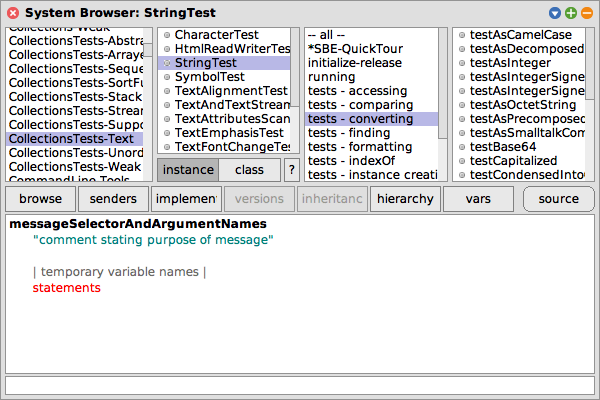
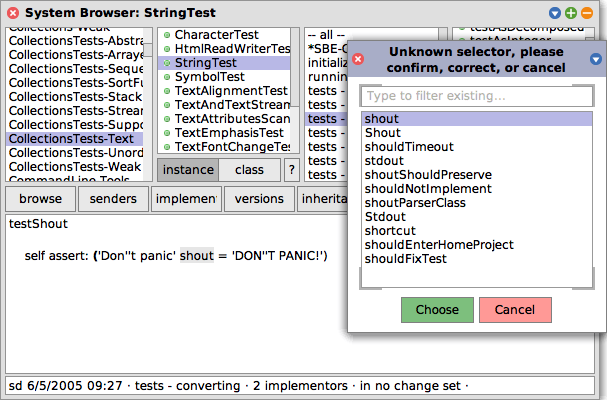
add testShoutConfirm

diff --git a/QuickTour/QuickTour.tex b/QuickTour/QuickTour.tex
@@ -783,12 +783,15 @@ So select \menu{accept (s)} from the yellow-button menu in the bottom pane, or j
 Because there is as yet no method called \ct{shout}, the browser will ask you to confirm that this is the name that you really want\,---\,and it will suggest some other names that you might have intended (\figref{testShoutConfirm}).
 This can be quite useful if you have merely made a typing mistake, but in this case, we really \emph{do} mean \ct{shout}, since that is the method we are about to create, so we have to confirm this by selecting the first option from the menu of choices, as shown in \figref{testShoutConfirm}. 
 
-%%{SBESqueakPicture writeTo: './figures/testShoutConfirm.png' frame: #morphs using: [:helper |
-%%  Browser fullOnClass: StringTest category: #'tests - converting'
-%%  "type 'testShout
-%%	self assert: ('Don''t panic' shout = 'DON''T PANICBANG')'    into the browser's 3rd submorph.
-%%   now press cmd-s to save the code.
-%%   "
+%%{SBESqueakPicture writeTo: './figures/testShoutConfirm.png' frame: #morphs using: [:helper | | browser textField |
+%%  Browser fullOnClass: StringTest selector: #testCapitalized.
+%%  textField := helper world firstSubmorph firstSubmorph firstSubmorph.
+%%  helper click: textField.
+%%  helper keyStroke: textField key: $a modifiers: #(cmd).
+%%  (Symbol classPool at: #SymbolTable) remove: 'shout' ifAbsent: [].
+%%  (Symbol classPool at: #NewSymbols) remove: 'shout' ifAbsent: [].
+%%  helper type: 'testShout\\    self assert: (''Don''''t panic'' shout = ''DON''''T PANIC!'')' withCRs into: textField.
+%%  helper runModal: [helper keyStroke: textField key: $s modifiers: #(cmd)] then: [helper dialogWindow position: 500 @ 40]
 %%]}
 
 \begin{figure}[hbt]
